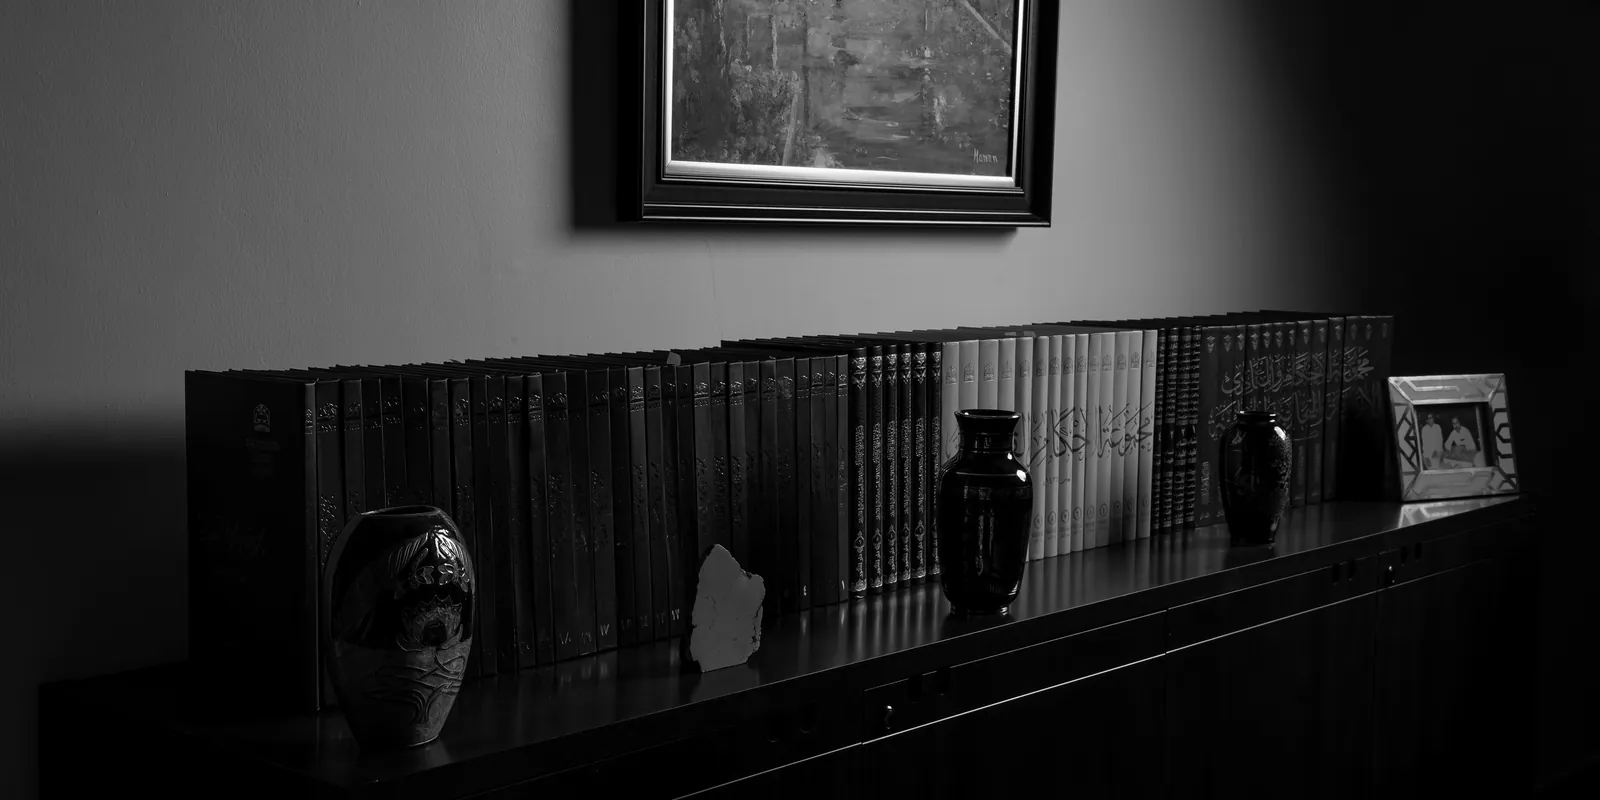
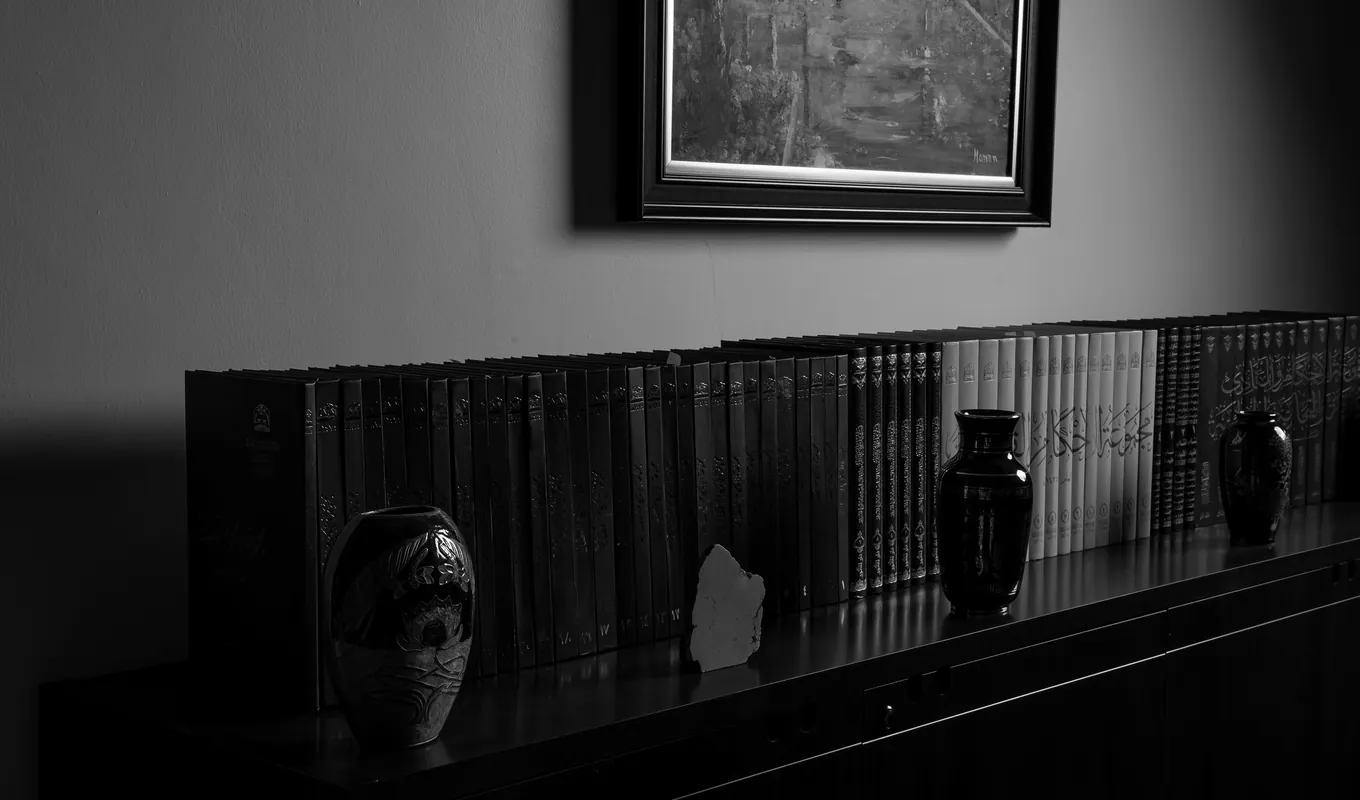
Update concepts 2026-11-20 09:02

diff --git a/alyousef-law-riyadh/ar/services.html b/alyousef-law-riyadh/ar/services.html
@@ -36,7 +36,7 @@
     <h1 id="pi-h"><span class="mk"><span class="k-split__word" style="--i:0">مجالات العمل</span></span></h1>
     <p class="k-split__fade" style="--i:1">الترافع في أي منطقة من مناطق المملكة وأمام أي محكمة، والتوثيق في المكتب، والصياغة القانونية.</p>
   </div>
-  <figure class="pi__band hero__photo"><img src="../img/office-sideboard.webp" alt="خزانة المكتب: صفوف من المجلدات القانونية ومزهريتان ولوحة في إطار، بالأبيض والأسود" width="1600" height="800" fetchpriority="high" style="object-position:50% 70%"><div class="flutes" aria-hidden="true"><i style="--i:0"></i><i style="--i:1"></i><i style="--i:2"></i><i style="--i:3"></i><i style="--i:4"></i><i style="--i:5"></i></div></figure>
+  <figure class="pi__band hero__photo"><img src="../img/office-sideboard.webp" alt="خزانة المكتب: صفوف من المجلدات القانونية ومزهريتان ولوحة في إطار، بالأبيض والأسود" width="1360" height="800" fetchpriority="high" style="object-position:50% 70%"><div class="flutes" aria-hidden="true"><i style="--i:0"></i><i style="--i:1"></i><i style="--i:2"></i><i style="--i:3"></i><i style="--i:4"></i><i style="--i:5"></i></div></figure>
 </section>
 
 <section class="sec" aria-labelledby="lit-h">
@@ -99,7 +99,7 @@
       </div>
     </div>
     <div class="map" data-k-map data-k-map-tap data-src="https://www.google.com/maps/embed?pb=!1m18!1m12!1m3!1d3624.7392579640677!2d46.747983415442825!3d24.70148845769302!2m3!1f0!2f0!3f0!3m2!1i1024!2i768!4f13.1!3m3!1m2!1s0x3e2f01142555a075%3A0xcf32c8dc007acd16!2z2YXZg9iq2Kgg2YrYp9iz2LEg2KjZhiDYs9mE2YrZhdin2YYg2KfZhNmK2YjYs9mBIC0g2YTZhNmF2K3Yp9mF2KfYqSDZiNin2YTYqtmI2KvZitmCIFlhc2lyIFMuIEFseW91c2VmIE9mZmljZSAtIExhdyBmaXJtICYgTm90YXJpemF0aW9u!5e0!3m2!1sar!2ssa!4v1567493269615!5m2!1sar!2ssa">
-      <img src="../img/office-sideboard.webp" alt="" width="1600" height="800" loading="lazy">
+      <img src="../img/office-sideboard.webp" alt="" width="1360" height="800" loading="lazy">
       <button type="button">اعرض الخريطة</button>
     </div>
   </div>

diff --git a/alyousef-law-riyadh/services.html b/alyousef-law-riyadh/services.html
@@ -36,7 +36,7 @@
     <h1 id="pi-h"><span class="mk"><span class="k-split__word" style="--i:0">Practice</span></span></h1>
     <p class="k-split__fade" style="--i:1">Litigation in any region of Saudi Arabia and before any court, notarization in the office, and legal drafting. Everything below is listed as the office lists it.</p>
   </div>
-  <figure class="pi__band hero__photo"><img src="img/office-sideboard.webp" alt="The office sideboard: rows of law volumes, two vases and a framed painting, in black and white" width="1600" height="800" fetchpriority="high" style="object-position:50% 70%"><div class="flutes" aria-hidden="true"><i style="--i:0"></i><i style="--i:1"></i><i style="--i:2"></i><i style="--i:3"></i><i style="--i:4"></i><i style="--i:5"></i></div></figure>
+  <figure class="pi__band hero__photo"><img src="img/office-sideboard.webp" alt="The office sideboard: rows of law volumes, two vases and a framed painting, in black and white" width="1360" height="800" fetchpriority="high" style="object-position:50% 70%"><div class="flutes" aria-hidden="true"><i style="--i:0"></i><i style="--i:1"></i><i style="--i:2"></i><i style="--i:3"></i><i style="--i:4"></i><i style="--i:5"></i></div></figure>
 </section>
 
 <section class="sec" aria-labelledby="lit-h">
@@ -99,7 +99,7 @@
       </div>
     </div>
     <div class="map" data-k-map data-k-map-tap data-src="https://www.google.com/maps/embed?pb=!1m18!1m12!1m3!1d3624.7392579640677!2d46.747983415442825!3d24.70148845769302!2m3!1f0!2f0!3f0!3m2!1i1024!2i768!4f13.1!3m3!1m2!1s0x3e2f01142555a075%3A0xcf32c8dc007acd16!2z2YXZg9iq2Kgg2YrYp9iz2LEg2KjZhiDYs9mE2YrZhdin2YYg2KfZhNmK2YjYs9mBIC0g2YTZhNmF2K3Yp9mF2KfYqSDZiNin2YTYqtmI2KvZitmCIFlhc2lyIFMuIEFseW91c2VmIE9mZmljZSAtIExhdyBmaXJtICYgTm90YXJpemF0aW9u!5e0!3m2!1sen!2ssa!4v1567493269615!5m2!1sen!2ssa">
-      <img src="img/office-sideboard.webp" alt="" width="1600" height="800" loading="lazy">
+      <img src="img/office-sideboard.webp" alt="" width="1360" height="800" loading="lazy">
       <button type="button">Show the map</button>
     </div>
   </div>

diff --git a/alyousef-law-riyadh/ar/about.html b/alyousef-law-riyadh/ar/about.html
@@ -43,7 +43,7 @@
     <h2 class="lab" id="ph-h">من داخل المكتب</h2>
     <div class="ph2">
       <figure data-reveal="clip"><img src="../img/office-shelf-wide.webp" alt="تمثال العدالة وتراخيص في إطارات ومجلدات قانونية على رفّ المكتب" width="1600" height="740" loading="lazy" style="object-position:30% 50%"></figure>
-      <figure data-reveal="clip" data-reveal-delay="150"><img src="../img/sideboard-books.webp" alt="مجلدات المراجع القانونية على الخزانة بين مزهريتين" width="1040" height="520" loading="lazy" style="object-position:35% 50%"></figure>
+      <figure data-reveal="clip" data-reveal-delay="150"><img src="../img/sideboard-books.webp" alt="مجلدات المراجع القانونية على الخزانة بين مزهريتين" width="800" height="520" loading="lazy" style="object-position:35% 50%"></figure>
     </div>
   </div>
 </section>
@@ -92,7 +92,7 @@
       </div>
     </div>
     <div class="map" data-k-map data-k-map-tap data-src="https://www.google.com/maps/embed?pb=!1m18!1m12!1m3!1d3624.7392579640677!2d46.747983415442825!3d24.70148845769302!2m3!1f0!2f0!3f0!3m2!1i1024!2i768!4f13.1!3m3!1m2!1s0x3e2f01142555a075%3A0xcf32c8dc007acd16!2z2YXZg9iq2Kgg2YrYp9iz2LEg2KjZhiDYs9mE2YrZhdin2YYg2KfZhNmK2YjYs9mBIC0g2YTZhNmF2K3Yp9mF2KfYqSDZiNin2YTYqtmI2KvZitmCIFlhc2lyIFMuIEFseW91c2VmIE9mZmljZSAtIExhdyBmaXJtICYgTm90YXJpemF0aW9u!5e0!3m2!1sar!2ssa!4v1567493269615!5m2!1sar!2ssa">
-      <img src="../img/office-sideboard.webp" alt="" width="1600" height="800" loading="lazy">
+      <img src="../img/office-sideboard.webp" alt="" width="1360" height="800" loading="lazy">
       <button type="button">اعرض الخريطة</button>
     </div>
   </div>

diff --git a/alyousef-law-riyadh/about.html b/alyousef-law-riyadh/about.html
@@ -43,7 +43,7 @@
     <h2 class="lab" id="ph-h">Inside the office</h2>
     <div class="ph2">
       <figure data-reveal="clip"><img src="img/office-shelf-wide.webp" alt="Lady Justice, framed licences and law volumes on the office shelf" width="1600" height="740" loading="lazy" style="object-position:30% 50%"></figure>
-      <figure data-reveal="clip" data-reveal-delay="150"><img src="img/sideboard-books.webp" alt="Volumes of Saudi legal reference on the sideboard, between two vases" width="1040" height="520" loading="lazy" style="object-position:35% 50%"></figure>
+      <figure data-reveal="clip" data-reveal-delay="150"><img src="img/sideboard-books.webp" alt="Volumes of Saudi legal reference on the sideboard, between two vases" width="800" height="520" loading="lazy" style="object-position:35% 50%"></figure>
     </div>
   </div>
 </section>
@@ -93,7 +93,7 @@
       </div>
     </div>
     <div class="map" data-k-map data-k-map-tap data-src="https://www.google.com/maps/embed?pb=!1m18!1m12!1m3!1d3624.7392579640677!2d46.747983415442825!3d24.70148845769302!2m3!1f0!2f0!3f0!3m2!1i1024!2i768!4f13.1!3m3!1m2!1s0x3e2f01142555a075%3A0xcf32c8dc007acd16!2z2YXZg9iq2Kgg2YrYp9iz2LEg2KjZhiDYs9mE2YrZhdin2YYg2KfZhNmK2YjYs9mBIC0g2YTZhNmF2K3Yp9mF2KfYqSDZiNin2YTYqtmI2KvZitmCIFlhc2lyIFMuIEFseW91c2VmIE9mZmljZSAtIExhdyBmaXJtICYgTm90YXJpemF0aW9u!5e0!3m2!1sen!2ssa!4v1567493269615!5m2!1sen!2ssa">
-      <img src="img/office-sideboard.webp" alt="" width="1600" height="800" loading="lazy">
+      <img src="img/office-sideboard.webp" alt="" width="1360" height="800" loading="lazy">
       <button type="button">Show the map</button>
     </div>
   </div>

diff --git a/alyousef-law-riyadh/ar/index.html b/alyousef-law-riyadh/ar/index.html
@@ -135,7 +135,7 @@
       </div>
     </div>
     <div class="map" data-k-map data-k-map-tap data-src="https://www.google.com/maps/embed?pb=!1m18!1m12!1m3!1d3624.7392579640677!2d46.747983415442825!3d24.70148845769302!2m3!1f0!2f0!3f0!3m2!1i1024!2i768!4f13.1!3m3!1m2!1s0x3e2f01142555a075%3A0xcf32c8dc007acd16!2z2YXZg9iq2Kgg2YrYp9iz2LEg2KjZhiDYs9mE2YrZhdin2YYg2KfZhNmK2YjYs9mBIC0g2YTZhNmF2K3Yp9mF2KfYqSDZiNin2YTYqtmI2KvZitmCIFlhc2lyIFMuIEFseW91c2VmIE9mZmljZSAtIExhdyBmaXJtICYgTm90YXJpemF0aW9u!5e0!3m2!1sar!2ssa!4v1567493269615!5m2!1sar!2ssa">
-      <img src="../img/office-sideboard.webp" alt="" width="1600" height="800" loading="lazy">
+      <img src="../img/office-sideboard.webp" alt="" width="1360" height="800" loading="lazy">
       <button type="button">اعرض الخريطة</button>
     </div>
   </div>

diff --git a/alyousef-law-riyadh/index.html b/alyousef-law-riyadh/index.html
@@ -192,7 +192,7 @@
       </div>
     </div>
     <div class="map" data-k-map data-k-map-tap data-src="https://www.google.com/maps/embed?pb=!1m18!1m12!1m3!1d3624.7392579640677!2d46.747983415442825!3d24.70148845769302!2m3!1f0!2f0!3f0!3m2!1i1024!2i768!4f13.1!3m3!1m2!1s0x3e2f01142555a075%3A0xcf32c8dc007acd16!2z2YXZg9iq2Kgg2YrYp9iz2LEg2KjZhiDYs9mE2YrZhdin2YYg2KfZhNmK2YjYs9mBIC0g2YTZhNmF2K3Yp9mF2KfYqSDZiNin2YTYqtmI2KvZitmCIFlhc2lyIFMuIEFseW91c2VmIE9mZmljZSAtIExhdyBmaXJtICYgTm90YXJpemF0aW9u!5e0!3m2!1sen!2ssa!4v1567493269615!5m2!1sen!2ssa">
-      <img src="img/office-sideboard.webp" alt="" width="1600" height="800" loading="lazy">
+      <img src="img/office-sideboard.webp" alt="" width="1360" height="800" loading="lazy">
       <button type="button">Show the map</button>
     </div>
   </div>
